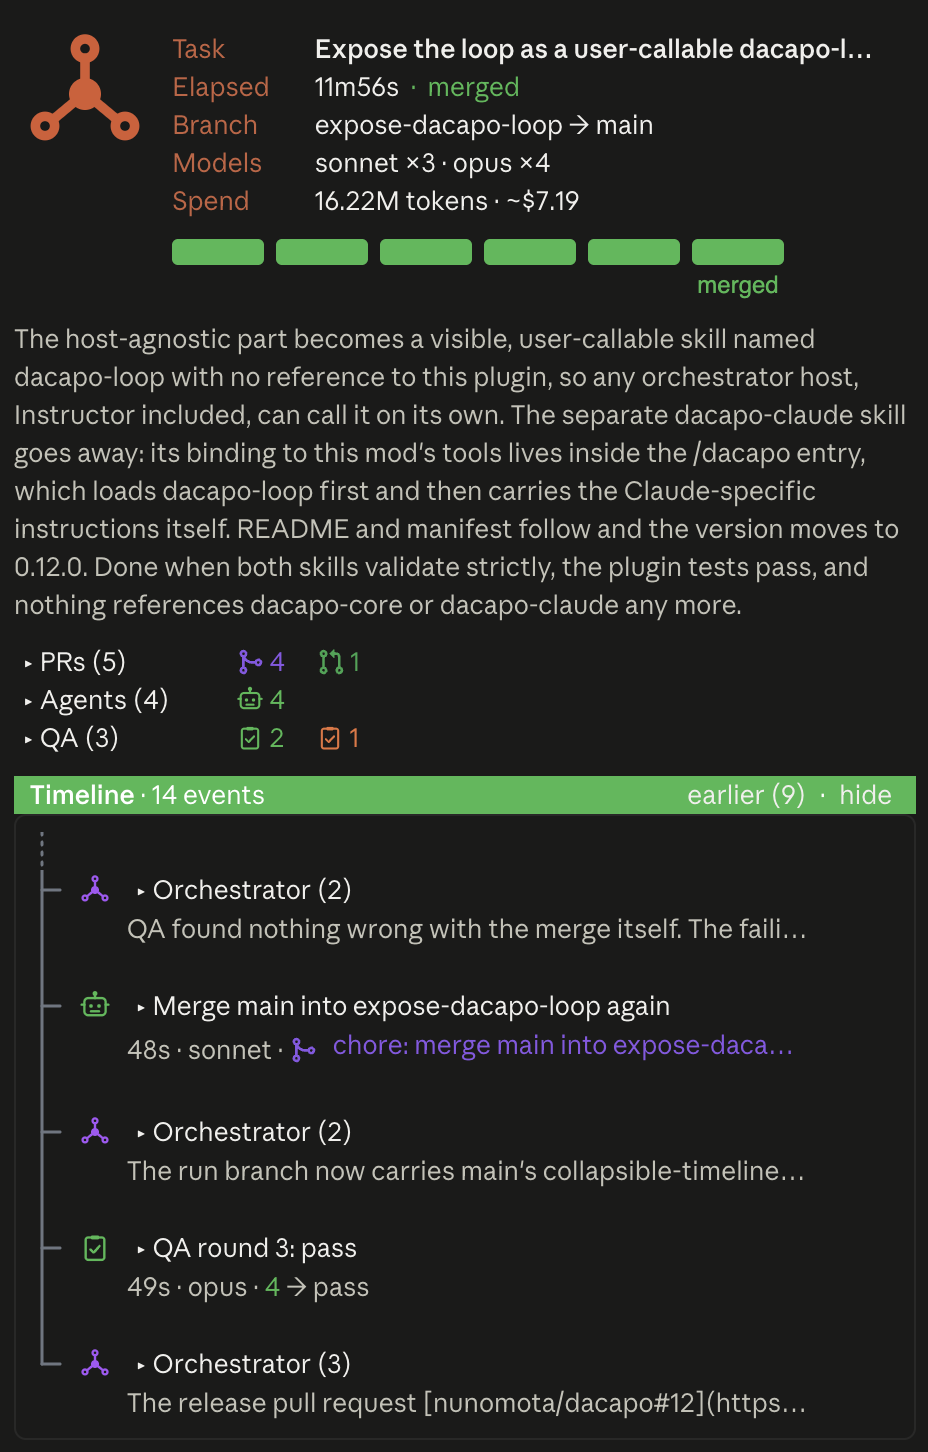
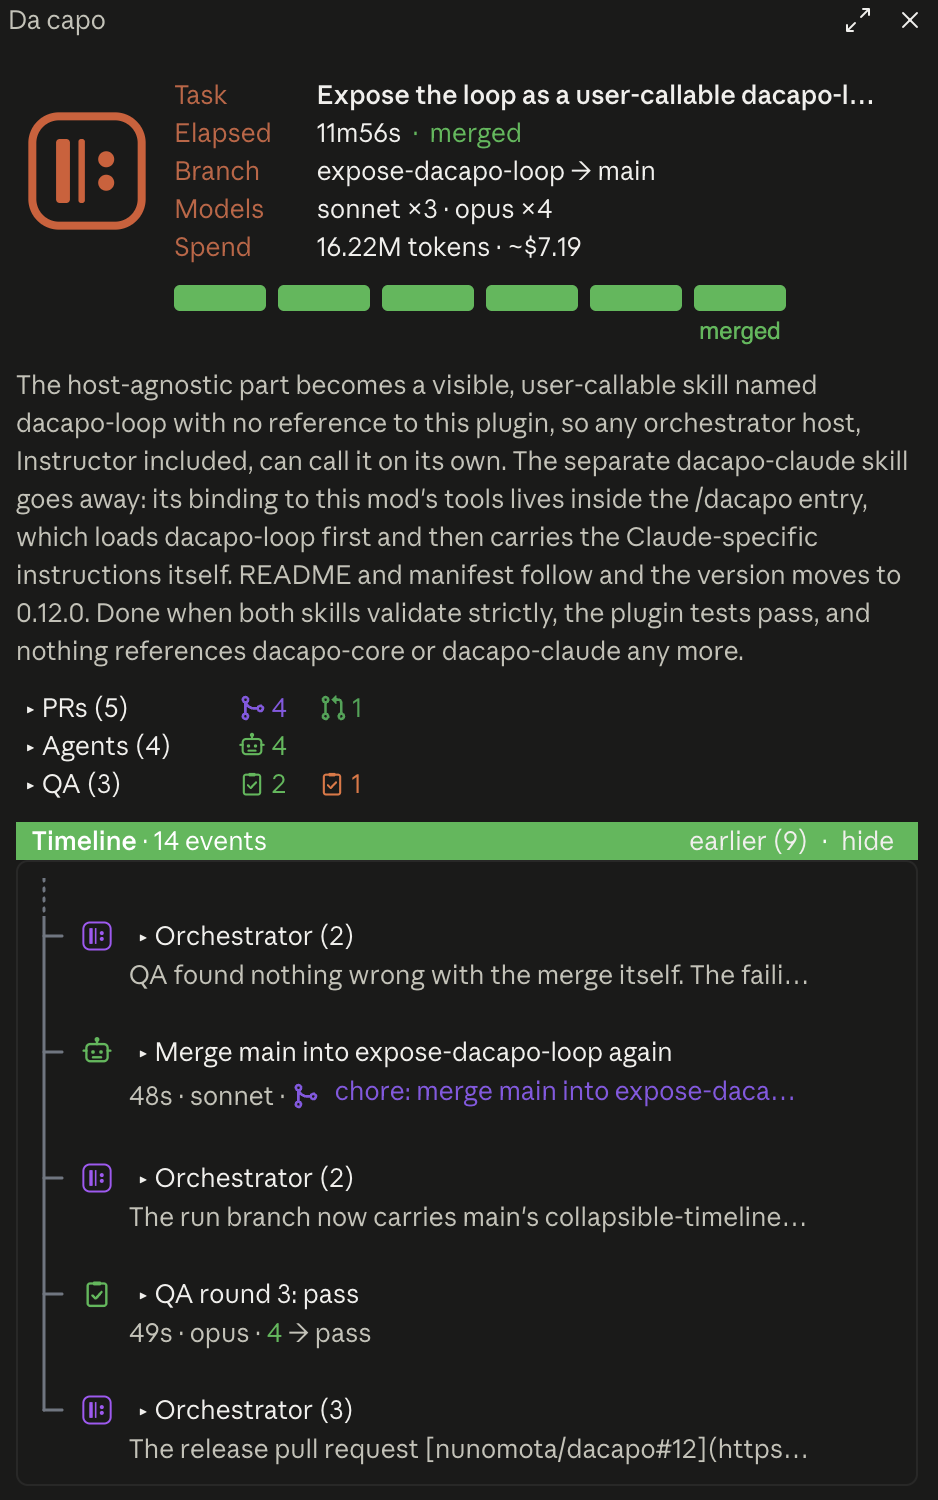
docs: refresh the pane screenshot with the repeat sign mark

diff --git a/README.md b/README.md
@@ -58,10 +58,6 @@ You can type while workers run. Your prompts become events in the timeline and a
 
 The header reads like fastfetch: the task, elapsed time, branch, models and spend, then a phase bar whose done phases are grey, current phase colored and named, phases ahead hollow. Three rows count pull requests by state, agents by outcome and QA rounds by verdict, each expanding to its items. Below them the timeline is a tree of everything that happened: your messages, the orchestrator's answers, every worker with a link to its pull request, every QA round with its scores. It shows the latest five events and folds the rest behind `earlier`.
 
-<p align="center">
-  <img src="docs/pane-collapsed.png" alt="The pane with the timeline folded" width="620">
-</p>
-
 One color code throughout: teal in progress, green done, yellow done with limitations or recommendations, orange failed.
 
 ## Tools
